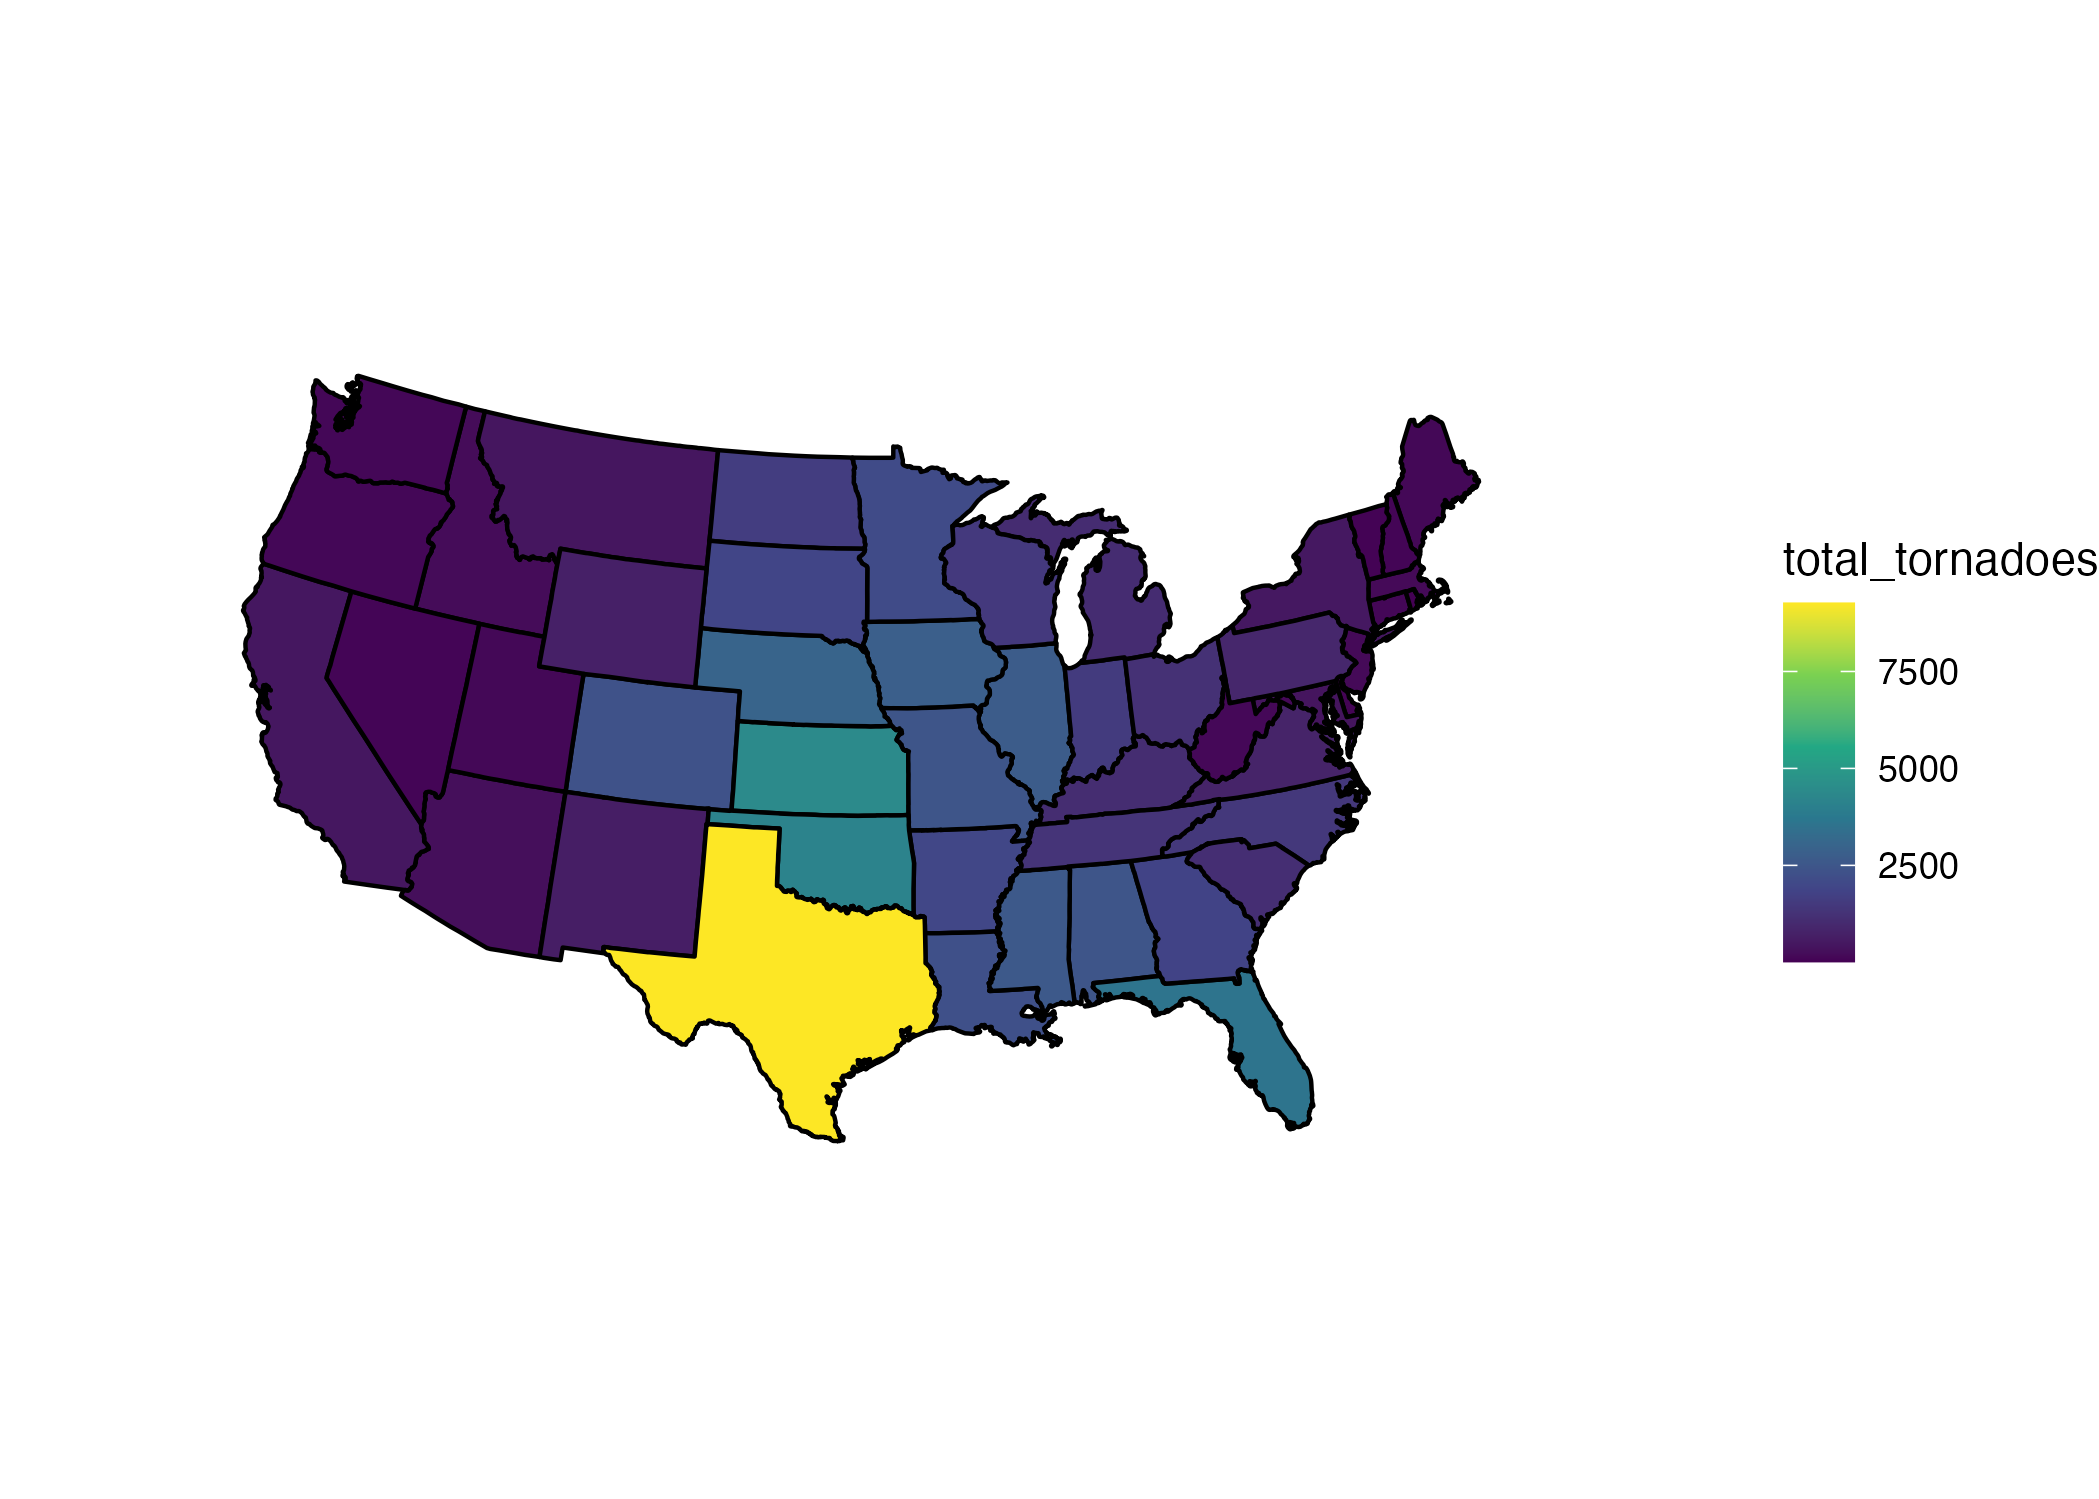
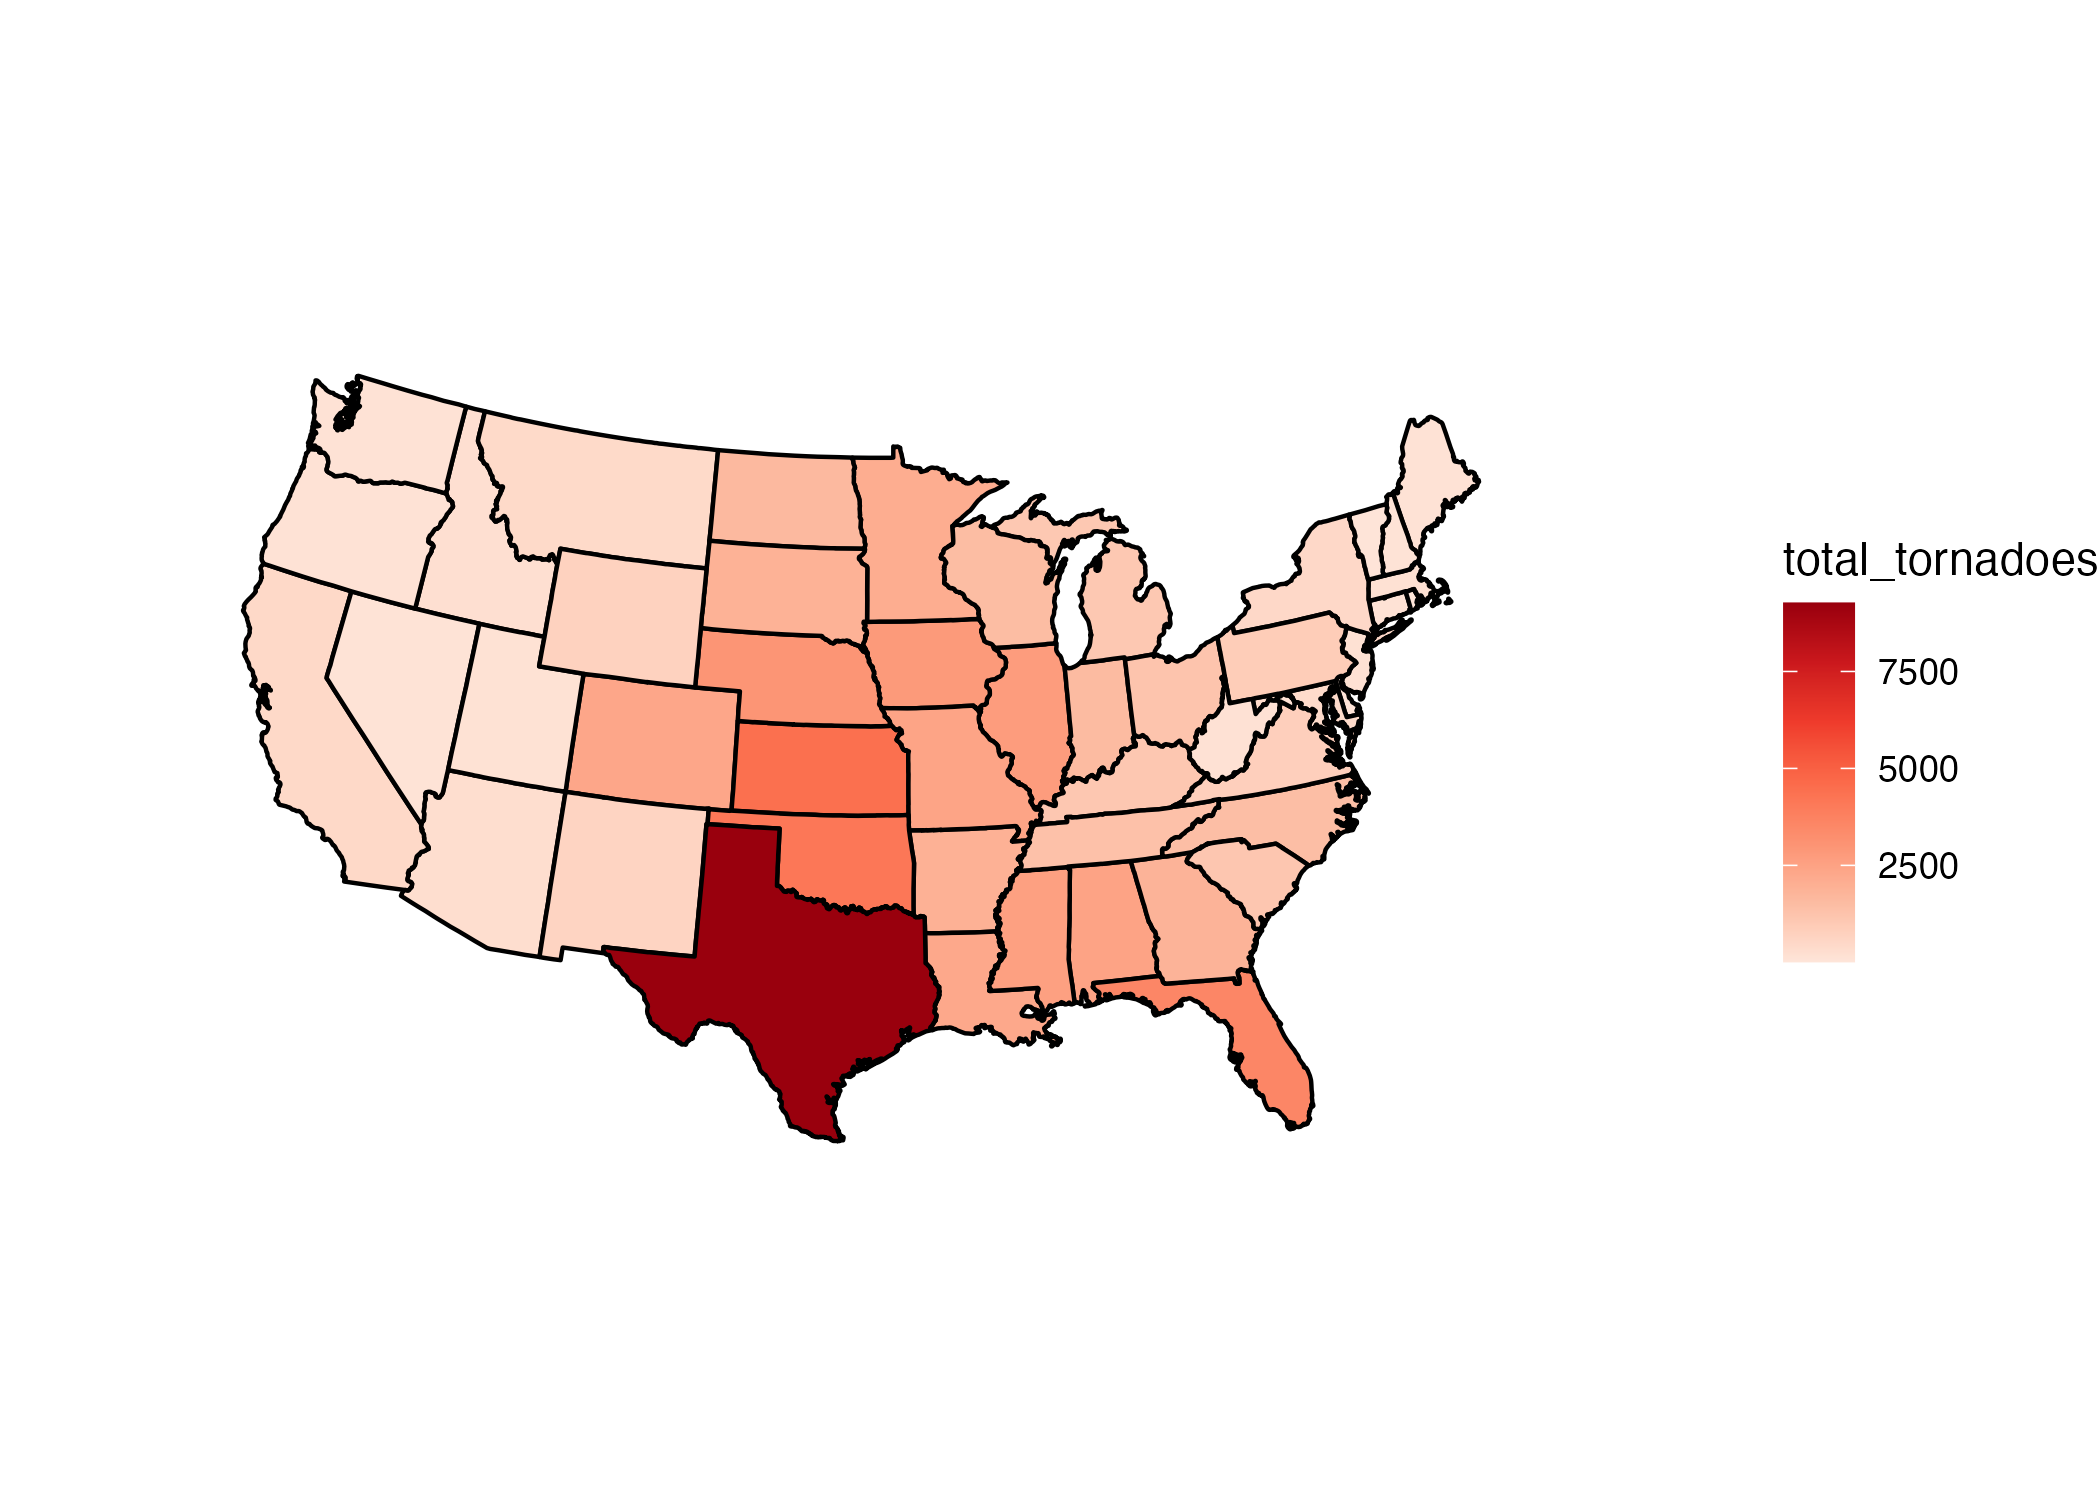
update commit

Changed region(s): [[0.0929, 0.2455, 0.7122, 0.7672], [0.8361, 0.3989, 0.898, 0.6444]]

diff --git a/docs/posts/BlogPost1/index.html b/docs/posts/BlogPost1/index.html
@@ -297,7 +297,7 @@ pre > code.sourceCode > span > a:first-child::before { text-decoration: underlin
 <span id="cb3-69"><a href="#cb3-69" aria-hidden="true" tabindex="-1"></a>  <span class="fu">geom_polygon</span>(<span class="at">colour =</span> <span class="st">"black"</span>, <span class="fu">aes</span>(<span class="at">fill =</span> total_tornadoes)) <span class="sc">+</span></span>
 <span id="cb3-70"><a href="#cb3-70" aria-hidden="true" tabindex="-1"></a>  <span class="fu">coord_map</span>(<span class="at">projection =</span> <span class="st">"albers"</span>, <span class="at">lat0 =</span> <span class="dv">39</span>, <span class="at">lat1 =</span> <span class="dv">45</span>) <span class="sc">+</span></span>
 <span id="cb3-71"><a href="#cb3-71" aria-hidden="true" tabindex="-1"></a>  <span class="fu">theme_void</span>() <span class="sc">+</span></span>
-<span id="cb3-72"><a href="#cb3-72" aria-hidden="true" tabindex="-1"></a>  <span class="fu">scale_fill_viridis_c</span>()</span>
+<span id="cb3-72"><a href="#cb3-72" aria-hidden="true" tabindex="-1"></a>  <span class="fu">scale_fill_distiller</span>(<span class="at">palette =</span> <span class="st">"Reds"</span>, <span class="at">direction =</span> <span class="fl">0.5</span>)</span>
 <span id="cb3-73"><a href="#cb3-73" aria-hidden="true" tabindex="-1"></a></span>
 <span id="cb3-74"><a href="#cb3-74" aria-hidden="true" tabindex="-1"></a>map_totaltornadoes</span></code><button title="Copy to Clipboard" class="code-copy-button"><i class="bi"></i></button></pre></div>
 <div class="cell-output-display">

diff --git a/docs/index.html b/docs/index.html
@@ -170,7 +170,7 @@ ul.task-list li input[type="checkbox"] {
 
 <div class="quarto-listing quarto-listing-container-default" id="listing-listing">
 <div class="list quarto-listing-default">
-<div class="quarto-post image-right" data-index="0" data-categories="code,analysis" data-listing-date-sort="1707390000000" data-listing-file-modified-sort="1707432722992" data-listing-date-modified-sort="NaN" data-listing-reading-time-sort="17">
+<div class="quarto-post image-right" data-index="0" data-categories="code,analysis" data-listing-date-sort="1707390000000" data-listing-file-modified-sort="1708288543474" data-listing-date-modified-sort="NaN" data-listing-reading-time-sort="17">
 <div class="thumbnail">
 <p><a href="./posts/BlogPost1/index.html"> <img src="./posts/BlogPost1/total_tornadoes_map.png" class="thumbnail-image"> </a></p>
 </div>
